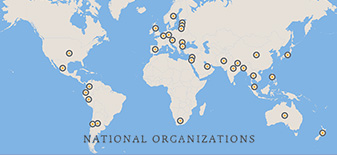
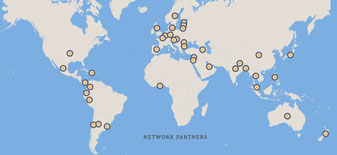
change mobile images for map and homepage

diff --git a/docroot/sites/all/themes/tweme/sass/_teachforall.scss b/docroot/sites/all/themes/tweme/sass/_teachforall.scss
@@ -1469,7 +1469,7 @@ img {max-width: 100%;}
 
 #mobileworldmap {
   text-align: center;
-  background-image: url(../images/worldmap-940.jpg);
+  background-image: url(../images/worldmap-2016-940.jpg);
   background-position: center;
   background-size: contain;
   background-repeat: no-repeat;

diff --git a/docroot/sites/all/themes/tweme/templates/page/page--front.tpl.php b/docroot/sites/all/themes/tweme/templates/page/page--front.tpl.php
@@ -120,7 +120,7 @@
   <div class="button-center-div">
     <div class="fake-table">
       <div class="fake-table-cell">
-        <a class="btn__red mobilemap" href="/our-network-and-impact/national-organizations" title="National Organizations"><?php print t('See All National Organizations'); ?></a>
+        <a class="btn__red mobilemap" href="/our-network-and-impact/national-organizations" title="National Organizations"><?php print t('See All Network Partners'); ?></a>
       </div>
     </div>
   </div>
